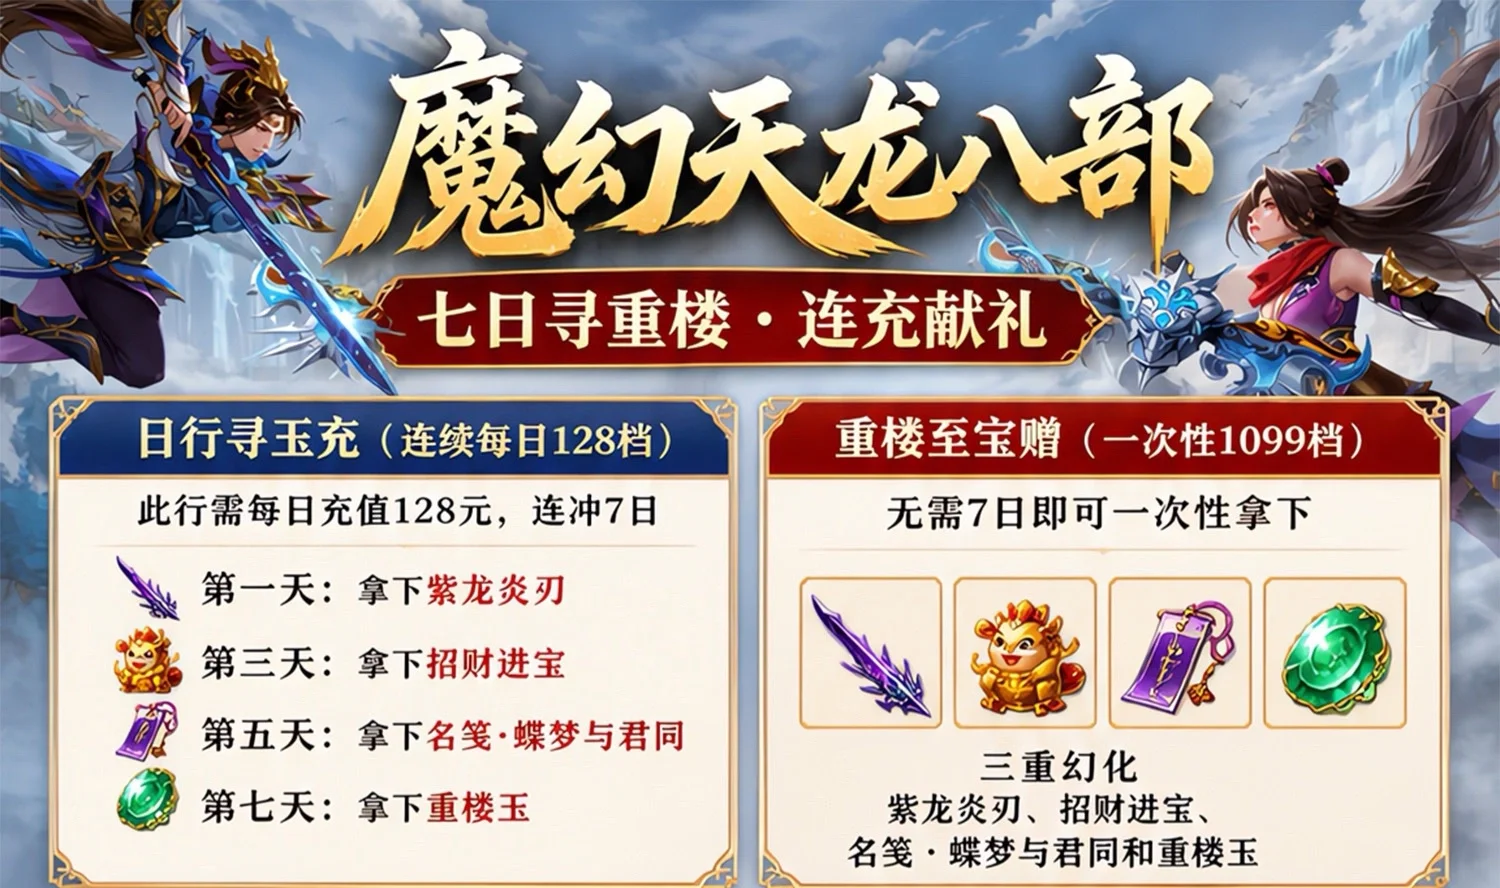
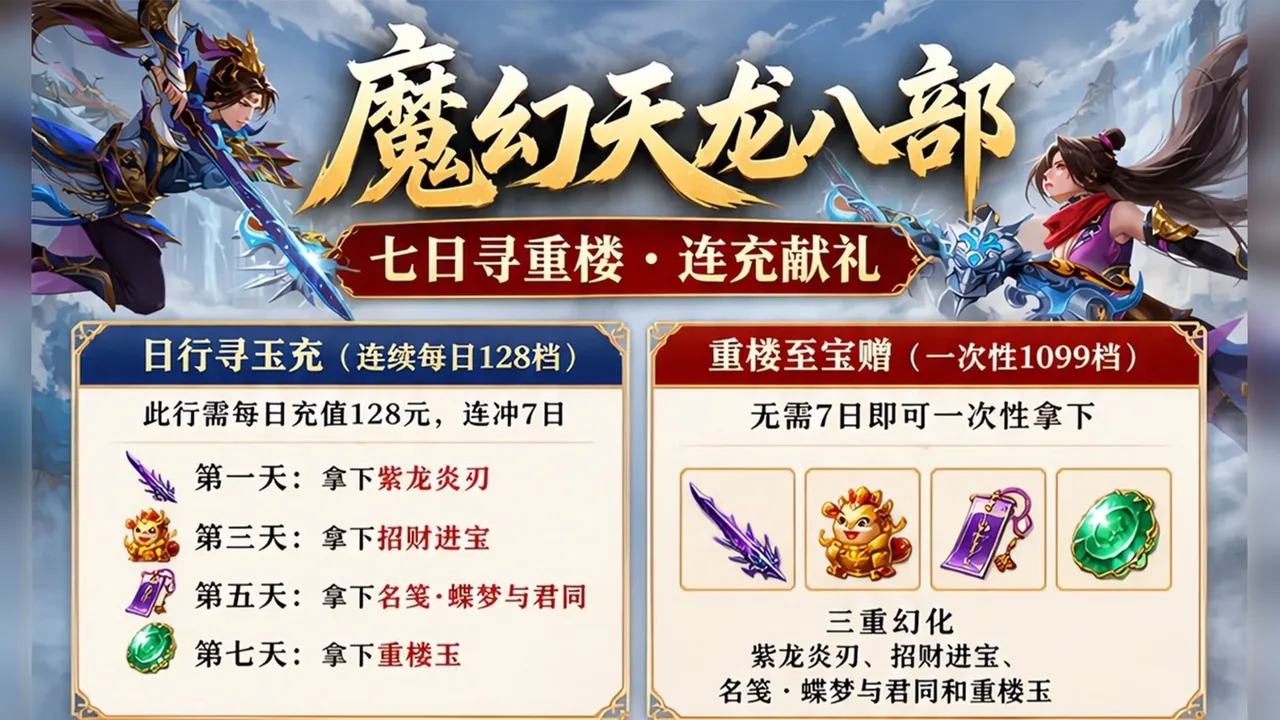
天龙入户页精修：5张魔幻轮播图统一16:9（内容零丢失），框体按原图比例零裁切，剩余空间均分为留白

diff --git a/index.html b/index.html
@@ -19,18 +19,17 @@ header{display:flex;align-items:center;justify-content:space-between;padding:10p
 .logo{display:flex;align-items:center;gap:10px;font-family:"Noto Serif SC",serif;font-weight:900;font-size:20px;color:#c9a45c}
 .logo svg{width:26px;height:26px}
 .logo small{display:block;font-size:10px;font-weight:400;color:#8a7a5e;letter-spacing:3px}
-/* 双轮播：移动端上下等分填满，多余空间全给轮播框，不留黑带 */
-.dual{flex:1;display:grid;grid-template-columns:1fr;grid-template-rows:1fr 1fr;gap:14px;min-height:0}
-@media(min-width:900px){.dual{grid-template-columns:1fr 1fr;grid-template-rows:auto;align-content:center}}
+/* 双轮播：框按图源 16:9 零裁切，剩余空间均分为留白 */
+.dual{flex:1;display:grid;grid-template-columns:1fr;gap:14px;min-height:0;align-content:space-evenly}
+@media(min-width:900px){.dual{grid-template-columns:1fr 1fr;align-content:center}}
 .zc{position:relative;background:#171209;border-radius:14px;overflow:hidden;min-width:0;display:flex;flex-direction:column;min-height:0}
 .zc-hd{display:flex;align-items:center;justify-content:space-between;gap:8px;padding:8px 12px 0;flex:none}
 .zc-hd b{font-family:"Noto Serif SC",serif;font-size:16px;color:#e8cf9a;font-weight:900}
 .zc-hd em{font-style:normal;font-size:11px;color:#8a7a5e;white-space:nowrap}
 .enter{font-size:12px;color:#b6a584;text-decoration:none;border:1px solid #33271a;border-radius:999px;padding:3px 10px;flex:none;transition:.2s}
 .enter:hover{color:#c9a45c;border-color:#c9a45c}
-/* 轮播：移动端弹性拉伸填满卡片，桌面端维持 16:9 */
-.carousel{position:relative;width:100%;margin-top:6px;overflow:hidden;flex:1;min-height:120px;background:#171209}
-@media(min-width:900px){.carousel{aspect-ratio:16/9;flex:none;min-height:0}}
+/* 轮播：图源统一 16:9，框按 16:9 零裁切 */
+.carousel{position:relative;width:100%;margin-top:6px;overflow:hidden;aspect-ratio:16/9;flex:none;background:#171209}
 .slide{position:absolute;top:0;left:0;width:100%;height:100%;display:flex;align-items:center;justify-content:center;opacity:0;transition:opacity .7s ease;pointer-events:none;overflow:hidden}
 .slide.on{opacity:1;pointer-events:auto}
 .slide img{display:block;width:100%;height:100%;object-fit:cover;object-position:center}

diff --git a/tianlong.html b/tianlong.html
@@ -18,17 +18,17 @@ header{display:flex;align-items:center;justify-content:space-between;padding:8px
 .logo small{display:block;font-size:9px;font-weight:400;color:#8a7a5e;letter-spacing:2px}
 .back{font-size:12px;color:#b6a584;text-decoration:none;border:1px solid #33271a;border-radius:999px;padding:2px 10px;flex:none}
 .back:hover{color:#c9a45c;border-color:#c9a45c}
-/* 双滚动区：移动端上下等分填满屏幕，多余空间全给轮播框，不留黑带 */
-.dual{display:grid;grid-template-columns:1fr 1fr;grid-template-rows:1fr;gap:10px;flex:1;min-height:0}
-@media(max-width:900px){.dual{grid-template-columns:1fr;grid-template-rows:1fr 1fr;gap:10px}}
+/* 双滚动区：图片全部统一 16:9，框按原图比例零裁切；剩余空间均分为留白 */
+.dual{display:grid;grid-template-columns:1fr 1fr;gap:10px;flex:1;min-height:0;align-content:space-evenly}
+@media(max-width:900px){.dual{grid-template-columns:1fr;gap:10px}}
 .zc{position:relative;background:#171209;border-radius:12px;overflow:hidden;min-width:0;min-height:0;display:flex;flex-direction:column}
 .zc-hd{display:flex;align-items:center;justify-content:space-between;gap:8px;padding:6px 10px 0}
 .zc-hd b{font-family:"Noto Serif SC",serif;font-size:15px;color:#e8cf9a;font-weight:900}
 .zc-hd em{font-style:normal;font-size:11px;color:#8a7a5e;white-space:nowrap}
 .enter{font-size:12px;color:#b6a584;text-decoration:none;border:1px solid #33271a;border-radius:999px;padding:2px 10px;flex:none;transition:.2s}
 .enter:hover{color:#c9a45c;border-color:#c9a45c}
-.carousel{position:relative;width:100%;margin-top:6px;overflow:hidden;flex:1;min-height:120px;background:#171209}
-@media(min-width:901px){.dual{flex:none}.carousel{height:300px;flex:none}}
+.carousel{position:relative;width:100%;margin-top:6px;overflow:hidden;aspect-ratio:16/9;flex:none;background:#171209}
+@media(min-width:901px){.dual{flex:none}}
 .slide{position:absolute;top:0;left:0;width:100%;height:100%;opacity:0;transition:opacity .7s ease;pointer-events:none;overflow:hidden;background:#171209}
 .slide.on{opacity:1;pointer-events:auto}
 .slide img{display:block;width:100%;height:100%;object-fit:cover;object-position:center top}
